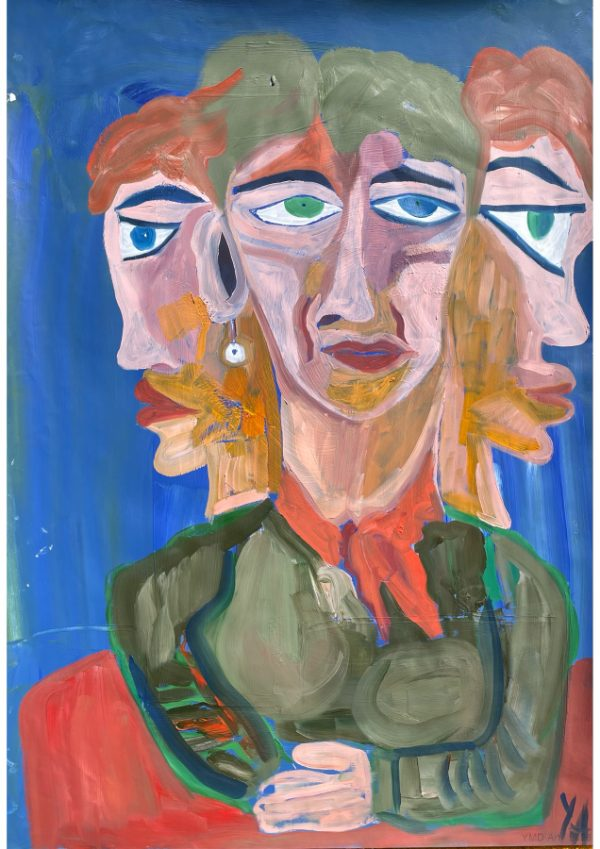
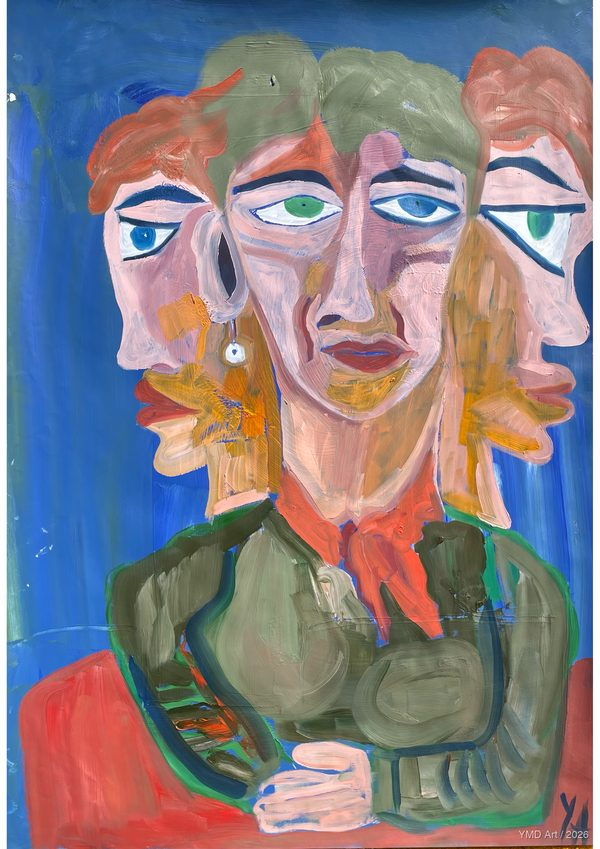
Website refinements 19/09: copy, labels, expanded panel, watermark
Implements the agreed YMD Art development update (all 8 items):
1. Intro copy: "moment" -> "moments" of stillness
2. Four Dancers labels: "(magenta)" and "(orange)" colour identifiers
3. Expanded panel: full white background, removed dark backdrop/grey art area
4. Expanded panel layout: description now below the image (column), consistent on mobile + desktop; image stays dominant
5. Removed the visible "pinch & double-tap" instruction (zoom still works)
6. Watermark: slightly stronger (white 165 + dark shadow) for consistent visibility across light/dark images; position/style preserved
7. View buttons: right-aligned within each artwork info row (already flex-end)
8. Family Portrait: added the original-artwork label below the print details (acrylics/oil stick/chalk, 61x92 cm, POA) as an additional block

Changed region(s): [[0.96, 0.2756, 0.99, 0.9187], [0.87, 0.98, 0.99, 1.0]]

diff --git a/index.html b/index.html
@@ -354,7 +354,7 @@
     position: fixed;
     inset: 0;
     z-index: 200;
-    background: rgba(0,0,0,0.92);
+    background: var(--white);
     align-items: center;
     justify-content: center;
   }
@@ -363,20 +363,21 @@
 
   .lightbox-inner {
     background: var(--white);
-    max-width: 900px;
+    max-width: 720px;
     width: 90%;
-    max-height: 90vh;
+    max-height: 92vh;
     display: flex;
-    overflow: hidden;
+    flex-direction: column;
+    overflow-y: auto;
   }
 
   .lightbox-art {
-    flex: 1;
+    flex: none;
     min-height: 400px;
     display: flex;
     align-items: center;
     justify-content: center;
-    background: var(--light-grey);
+    background: var(--white);
     padding: 28px;
     box-sizing: border-box;
     position: relative;
@@ -399,34 +400,38 @@
     -webkit-user-drag: none;
   }
 
-  .zoom-hint {
-    position: absolute;
-    bottom: 12px;
-    left: 50%;
-    transform: translateX(-50%);
-    background: rgba(0,0,0,0.55);
-    color: #fff;
-    font-size: 10px;
-    letter-spacing: 0.08em;
-    text-transform: uppercase;
-    padding: 6px 12px;
-    border-radius: 20px;
-    pointer-events: none;
-    transition: opacity 0.3s;
-    display: none;
-  }
-
   .lightbox-detail {
-    width: 280px;
+    width: 100%;
+    box-sizing: border-box;
     flex-shrink: 0;
-    padding: 40px 32px;
-    border-left: 1px solid var(--light-grey);
+    padding: 32px;
+    border-top: 1px solid var(--light-grey);
     display: flex;
     flex-direction: column;
-    justify-content: space-between;
   }
 
   .lightbox-detail .section-label { margin-bottom: 4px; }
+
+  .lightbox-extra {
+    margin-top: 24px;
+    padding-top: 24px;
+    border-top: 1px solid var(--light-grey);
+  }
+
+  .lightbox-extra-label {
+    font-size: 10px;
+    letter-spacing: 0.18em;
+    text-transform: uppercase;
+    color: var(--mid-grey);
+    margin-bottom: 6px;
+  }
+
+  .lightbox-extra-title {
+    font-size: 16px;
+    font-weight: 400;
+    letter-spacing: -0.01em;
+    margin-bottom: 12px;
+  }
 
   .lightbox-title {
     font-size: 22px;
@@ -671,11 +676,10 @@
     section { padding: 60px 20px; }
     #collection { padding: 60px 16px; }
     .artwork-grid { grid-template-columns: repeat(2, 1fr); gap: 1px; }
-    .lightbox-inner { flex-direction: column; max-height: 95vh; overflow-y: auto; }
+    .lightbox-inner { width: 100%; max-width: 100%; max-height: 100vh; }
     .lightbox-art { min-height: 62vh; padding: 12px; justify-content: center; }
     .lightbox-art-img { max-height: 72vh; }
-    .zoom-hint { display: block; }
-    .lightbox-detail { width: 100%; border-left: none; border-top: 1px solid var(--light-grey); padding: 24px; }
+    .lightbox-detail { padding: 24px; }
     footer { flex-direction: column; gap: 12px; text-align: center; }
     .footer-rights { align-items: center; text-align: center; }
     .hero-title { font-size: 48px; }
@@ -704,7 +708,7 @@
   <div class="hero-accent-line"></div>
   <p class="hero-eyebrow">Original Paintings · Fine Art Prints</p>
   <h1 class="hero-title"><strong>YMD</strong> <span class="hero-title-art">Art</span></h1>
-  <p class="hero-sub">Yalckun has a strong interest in colour and uses his work to explore the way human figures occupy space, conveying both movement and moment of stillness.</p>
+  <p class="hero-sub">Yalckun has a strong interest in colour and uses his work to explore the way human figures occupy space, conveying both movement and moments of stillness.</p>
   <a href="#collection" class="hero-cta">View the Collection</a>
   <p class="hero-scroll-hint">↓ Scroll</p>
 </section>
@@ -772,6 +776,7 @@
         <p class="lightbox-price-val" id="lbPrice">—</p>
         <a class="lightbox-enquire" id="lbEnquire" href="#">Enquire →</a>
       </div>
+      <div class="lightbox-extra" id="lbExtra" hidden></div>
     </div>
   </div>
 </div>
@@ -780,15 +785,16 @@
 const artworks = [
   { title: "Female Portrait",            medium: "Print of original painting", size: "29 × 42 cm",                  price: "£70",       edition: "Available", cls: "art-1",  img: "01-female-portrait.jpg",              w: 1272, h: 1800 },
   { title: "All About My Mother",        medium: "Print of original painting", size: "29.5 × 38.5 cm / 28 × 21 cm", price: "£70 / £40", edition: "Available", cls: "art-4",  img: "02-all-about-my-mother.jpg",          w: 1800, h: 1272 },
-  { title: "Four Dancers",               medium: "Print of digital painting",  size: "29.5 × 41.5 cm",              price: "£70",       edition: "Available", cls: "art-9",  img: "03-four-dancers.jpg",                 w: 1292, h: 1800 },
-  { title: "Four Dancers",               medium: "Print of digital painting",  size: "22 × 41.5 cm",                price: "£70",       edition: "Available", cls: "art-9",  img: "04-four-dancers.jpg",                 w: 957,  h: 1800 },
+  { title: "Four Dancers (magenta)",     medium: "Print of digital painting",  size: "29.5 × 41.5 cm",              price: "£70",       edition: "Available", cls: "art-9",  img: "03-four-dancers.jpg",                 w: 1292, h: 1800 },
+  { title: "Four Dancers (orange)",      medium: "Print of digital painting",  size: "22 × 41.5 cm",                price: "£70",       edition: "Available", cls: "art-9",  img: "04-four-dancers.jpg",                 w: 957,  h: 1800 },
   { title: "From Here",                  medium: "Print of digital painting",  size: "28 × 29.5 cm",                price: "£70",       edition: "Available", cls: "art-7",  img: "05-from-here.jpg",                    w: 1799, h: 1707 },
   { title: "Male Portrait",              medium: "Print of original painting", size: "29.5 × 41.5 cm",              price: "£70",       edition: "Available", cls: "art-2",  img: "06-male-portrait.jpg",                w: 1272, h: 1800 },
   { title: "Portrait of a Couple",       medium: "Print of original painting", size: "29 × 42 cm",                  price: "£70",       edition: "Available", cls: "art-3",  img: "07-portrait-of-a-couple.jpg",         w: 1272, h: 1800 },
   { title: "Study in Blue Green and Red",medium: "Print of original painting", size: "29 × 43 cm",                  price: "£70",       edition: "Available", cls: "art-6",  img: "08-study-in-blue-green-and-red.jpg",  w: 1272, h: 1800 },
   { title: "A Family",                   medium: "Print of digital painting",  size: "30 × 30 cm / 21 × 21 cm",     price: "£70 / £40", edition: "Available", cls: "art-8",  img: "09-a-family.jpg",                     w: 1800, h: 1800 },
   { title: "Mabel",                      medium: "Print of digital painting",  size: "32 × 30 cm / 21 × 19 cm",     price: "£70 / £40", edition: "Available", cls: "art-10", img: "10-mabel.jpg",                        w: 1800, h: 1664 },
-  { title: "Family Portrait",            medium: "Print of original painting", size: "28 × 42 cm",                  price: "£70",       edition: "Available", cls: "art-5",  img: "11-family-portrait.jpg",              w: 1272, h: 1800 }
+  { title: "Family Portrait",            medium: "Print of original painting", size: "28 × 42 cm",                  price: "£70",       edition: "Available", cls: "art-5",  img: "11-family-portrait.jpg",              w: 1272, h: 1800,
+    extra: { title: "Family Portrait original", medium: "Acrylics, oil stick and chalk on wood panel", size: "Width 61 cm × Height 92 cm", price: "POA" } }
 ];
 
 // Build grid
@@ -826,7 +832,7 @@ function openLightbox(i, trigger) {
   const a = artworks[i];
   const box = document.getElementById('lightbox');
   document.getElementById('lightboxArt').className = 'lightbox-art';
-  document.getElementById('lightboxArt').innerHTML = `<img class="lightbox-art-img" src="images/${a.img}" alt="${a.title}, ${a.medium}"><span class="zoom-hint">Pinch or double-tap to zoom</span>`;
+  document.getElementById('lightboxArt').innerHTML = `<img class="lightbox-art-img" src="images/${a.img}" alt="${a.title}, ${a.medium}">`;
   resetZoom();
   document.getElementById('lbTitle').textContent = a.title;
   document.getElementById('lbEdition').textContent = a.edition;
@@ -834,6 +840,21 @@ function openLightbox(i, trigger) {
   document.getElementById('lbMeta').innerHTML =
     `<p><strong>Medium</strong><br>${a.medium}</p>
      <p><strong>Size</strong><br>${a.size}</p>`;
+  const extraEl = document.getElementById('lbExtra');
+  if (a.extra) {
+    extraEl.innerHTML =
+      `<p class="lightbox-extra-label">Original artwork</p>
+       <p class="lightbox-extra-title">${a.extra.title}</p>
+       <div class="lightbox-meta">
+         <p><strong>Medium</strong><br>${a.extra.medium}</p>
+         <p><strong>Size</strong><br>${a.extra.size}</p>
+         <p><strong>Price</strong><br>${a.extra.price}</p>
+       </div>`;
+    extraEl.hidden = false;
+  } else {
+    extraEl.innerHTML = '';
+    extraEl.hidden = true;
+  }
   document.getElementById('lbEnquire').href =
     `mailto:hello@ymdart.co.uk?subject=${encodeURIComponent('Enquiry: ' + a.title)}&body=${encodeURIComponent('Hi Yalckun,\n\nI\u2019m interested in "' + a.title + '" and would like to know more.\n\n')}`;
   box.classList.add('open');
